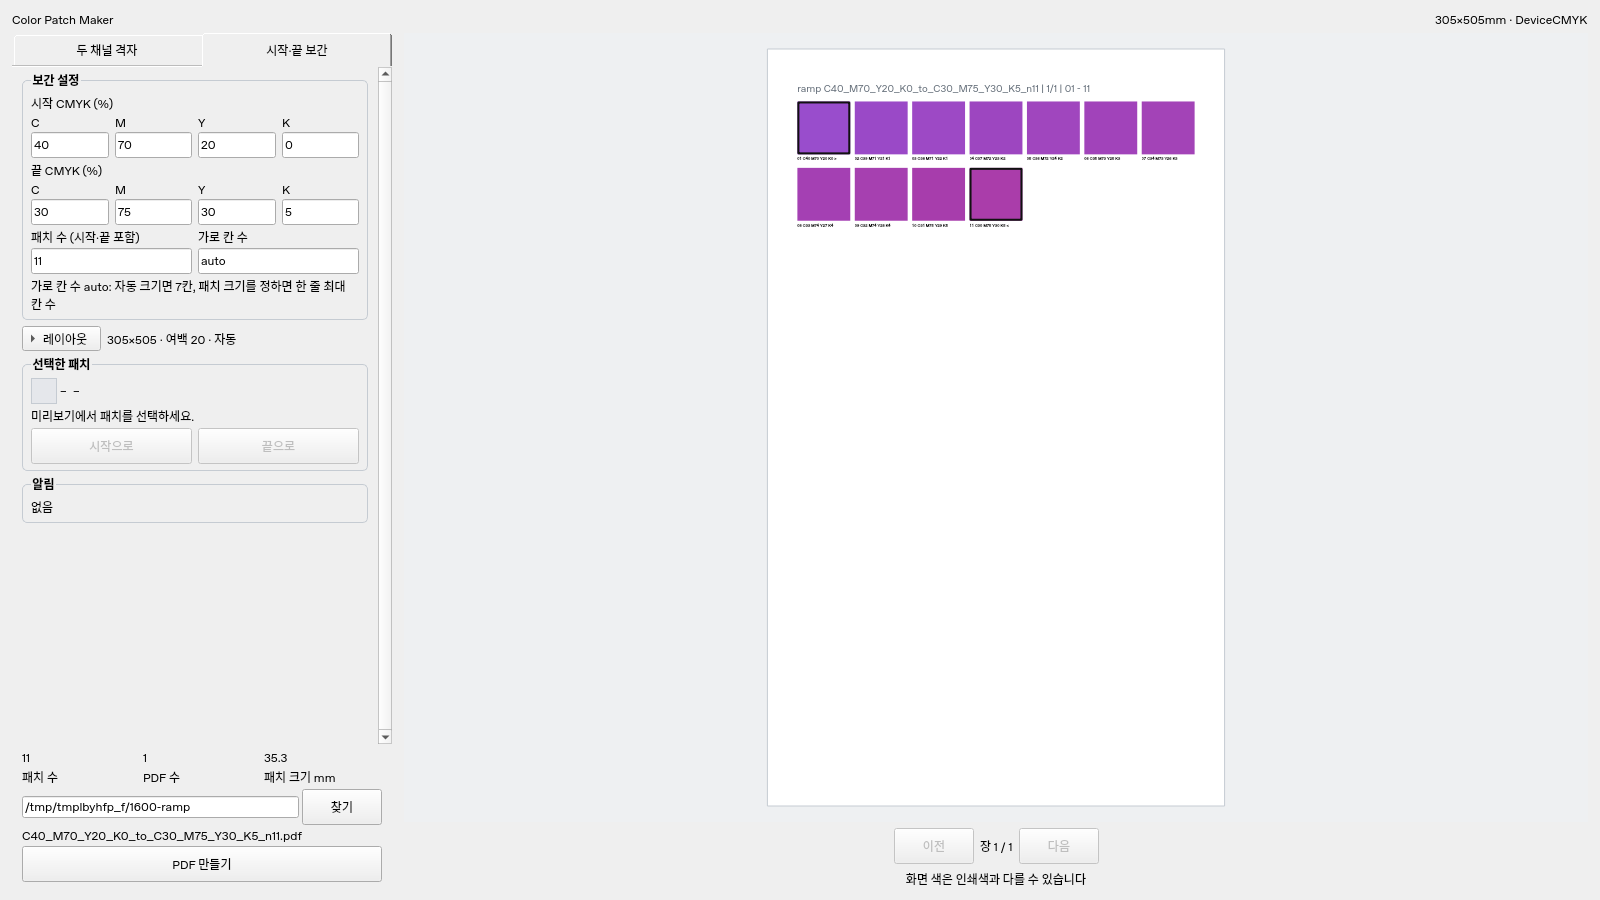
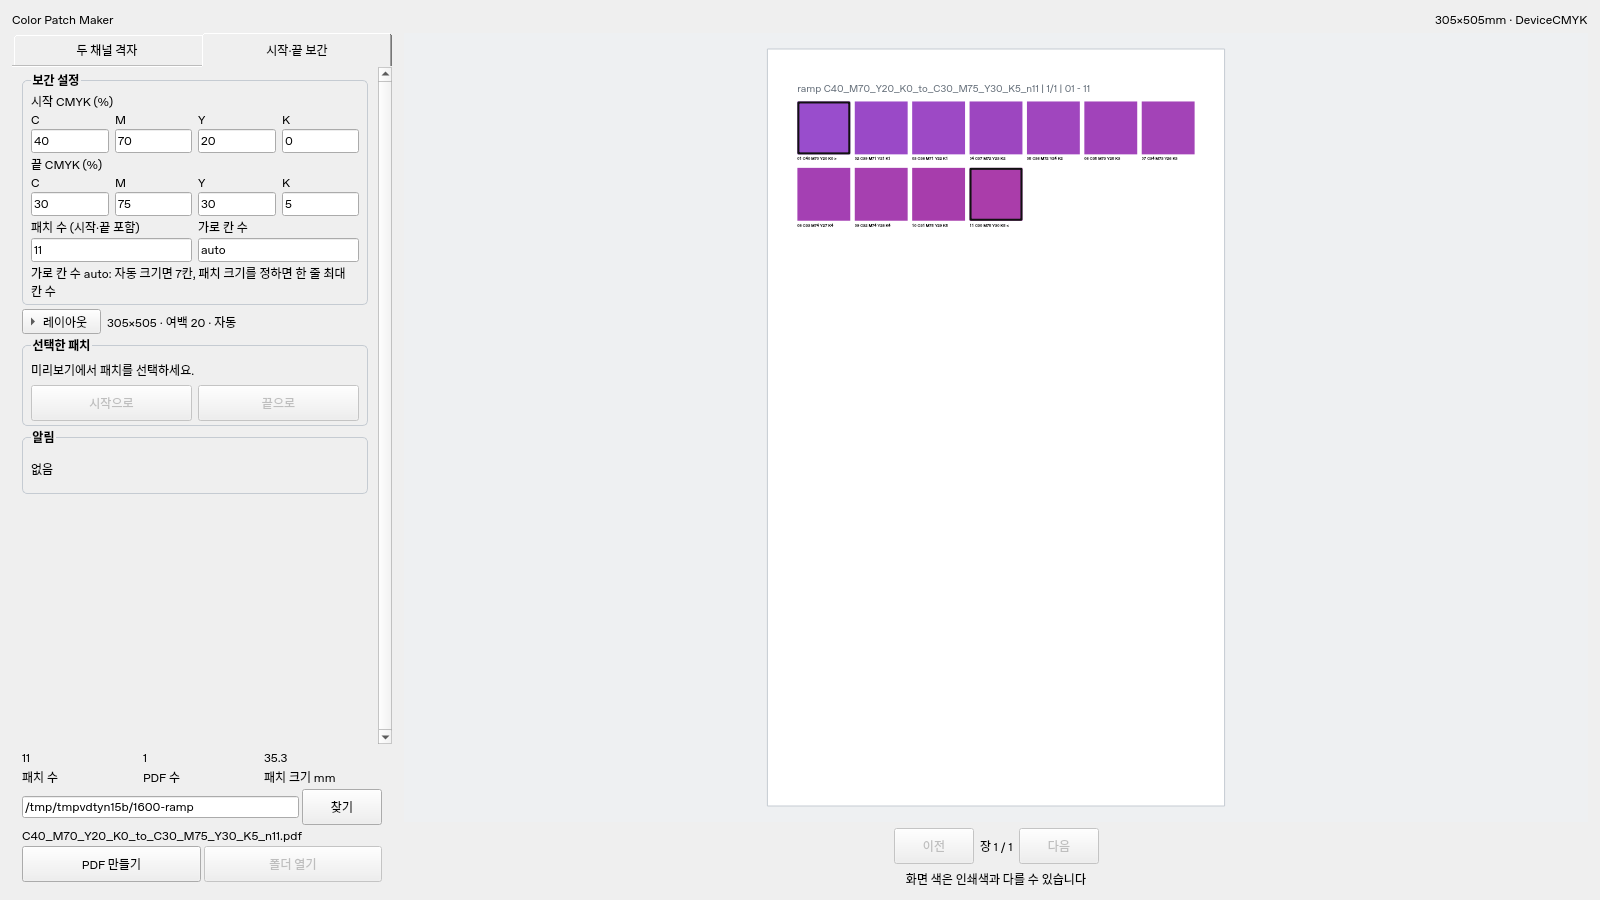
fix(gui): keep output notices visible and remove Enter shortcut

diff --git a/color_patch_maker/gui/sidebar.py b/color_patch_maker/gui/sidebar.py
@@ -64,7 +64,7 @@ class StatusText(QPlainTextEdit):
     def __init__(self):
         super().__init__()
         self.setReadOnly(True)
-        self.setFixedHeight(72)
+        self.setFixedHeight(40)
         self.setObjectName('output_status')
 
     def setText(self, text):
@@ -99,7 +99,7 @@ class Sidebar(QWidget):
         body = named(QWidget(), 'settings_body')
         content = QVBoxLayout(body)
         content.setContentsMargins(10, 6, 10, 6)
-        content.setSpacing(6)
+        content.setSpacing(4)
         self.grid_panel, grid = self.group('격자 설정', 'grid_panel')
         self.cmyk(grid, '기준 CMYK (%)', 'grid_cmyk', (40, 70, 20, 0))
         channel = named(QComboBox(), 'grid_channels')
@@ -160,8 +160,14 @@ class Sidebar(QWidget):
         text.setSpacing(6)
         text.addStretch()
         selected_row.addLayout(text, 1)
-        picked_layout.addLayout(selected_row)
-        picked_layout.addWidget(label('미리보기에서 패치를 선택하세요.', 'selection_hint'))
+        self.selection_details = named(QStackedWidget(), 'selection_details')
+        self.selection_details.setFixedHeight(26)
+        self.selection_details.addWidget(label('미리보기에서 패치를 선택하세요.', 'selection_hint'))
+        details = QWidget()
+        details.setLayout(selected_row)
+        selected_row.setContentsMargins(0, 0, 0, 0)
+        self.selection_details.addWidget(details)
+        picked_layout.addWidget(self.selection_details)
         self.use_base = button('이 값을 기준으로', 'use_as_base_button')
 
         self.ramp_actions = QWidget()
@@ -176,7 +182,11 @@ class Sidebar(QWidget):
         picked_layout.addWidget(self.selection_actions)
         content.addWidget(picked)
         warnings, warnings_layout = self.group('알림', 'warnings_panel')
-        warnings_layout.addWidget(label('없음', 'warning_list'))
+        notice_stack = named(QStackedWidget(), 'notice_stack')
+        notice_stack.setFixedHeight(40)
+        notice_stack.addWidget(label('없음', 'warning_list'))
+        notice_stack.addWidget(StatusText())
+        warnings_layout.addWidget(notice_stack)
         content.addWidget(warnings)
         content.addStretch()
         self.scroll.setWidget(body)
@@ -203,13 +213,10 @@ class Sidebar(QWidget):
         foot.addLayout(folder_row)
         foot.addWidget(ErrorLabel('output_folder_error'))
         foot.addWidget(label('–', 'filename_preview'))
-        foot.addWidget(button('PDF 만들기', 'make_pdf_button'))
-        status = StatusText()
-        status.hide()
-        foot.addWidget(status)
-        open_folder = button('폴더 열기', 'open_folder_button')
-        open_folder.hide()
-        foot.addWidget(open_folder)
+        output_actions = QHBoxLayout()
+        output_actions.addWidget(button('PDF 만들기', 'make_pdf_button'), 1)
+        output_actions.addWidget(button('폴더 열기', 'open_folder_button'), 1)
+        foot.addLayout(output_actions)
         outer.addWidget(footer)
         self.tabs.currentChanged.connect(self.set_mode)
         self.set_mode(0)
@@ -219,8 +226,8 @@ class Sidebar(QWidget):
         group = named(QGroupBox(title), name)
         group.setSizePolicy(QSizePolicy.Policy.Preferred, QSizePolicy.Policy.Maximum)
         box = QVBoxLayout(group)
-        box.setContentsMargins(8, 8, 8, 6)
-        box.setSpacing(3)
+        box.setContentsMargins(8, 6, 8, 4)
+        box.setSpacing(2)
         return group, box
 
     def row(self, parent, specs):
@@ -232,7 +239,7 @@ class Sidebar(QWidget):
             field.setAlignment(Qt.AlignmentFlag.AlignTop)
             widget = named(QLineEdit(value), name) if isinstance(value, str) else value
             widget.setMinimumWidth(0)
-            widget.setFixedHeight(26)
+            widget.setFixedHeight(24)
             widget.setAccessibleName(title)
             caption = QLabel(title)
             caption.setBuddy(widget)

diff --git a/tests/test_gui_output.py b/tests/test_gui_output.py
@@ -91,10 +91,10 @@ def test_collision_output_and_cli(window,tmp_path,split,mode):
     gui_json=[p for p in predicted if p.endswith('.json')]
     assert [json.loads(Path(p).read_text())['patches'] for p in gui_json]==[json.loads(Path(p).read_text())['patches'] for p in cli_json]
     value(window,'grid_step',2)
-    assert not wid(window,'output_status').isVisible() and not wid(window,'open_folder_button').isVisible()
+    assert not wid(window,'output_status').isVisible() and not wid(window,'open_folder_button').isEnabled()
 
 
-def test_worker_snapshot_lock_close_and_enter(window,tmp_path,monkeypatch):
+def test_worker_snapshot_lock_close(window,tmp_path,monkeypatch):
     gate=threading.Event();started=threading.Event();seen=[]
     original=output.export
     def delayed(document,folder):
@@ -104,7 +104,7 @@ def test_worker_snapshot_lock_close_and_enter(window,tmp_path,monkeypatch):
     monkeypatch.setattr(output,'export',delayed)
     value(window,'output_folder',tmp_path)
     snapshot=copy.deepcopy(window.controller.document)
-    QTest.keyClick(wid(window,'grid_cmyk_c'),Qt.Key.Key_Return)
+    wid(window,'make_pdf_button').click()
     wait_until(started.is_set)
     try:
         assert window.controller.output.busy
@@ -196,3 +196,49 @@ def test_open_folder(window,tmp_path,monkeypatch):
     wait_until(lambda:not window.controller.output.busy)
     wid(window,'open_folder_button').click()
     assert calls==[str(tmp_path)]
+
+
+@pytest.mark.parametrize('tab',[0,1])
+@pytest.mark.parametrize('state',['default','invalid','generating','completed','failure'])
+@pytest.mark.parametrize('family',['DejaVu Sans','Noto Sans CJK KR'])
+def test_notice_clearance_in_all_states(window,app,tmp_path,tab,state,family):
+    from PySide6.QtGui import QFont
+    window.setFont(QFont(family,10))
+    window.resize(1024,720)
+    window.sidebar.tabs.setCurrentIndex(tab)
+    if state not in ('default','invalid'):
+        value(window,'output_folder',tmp_path)
+    app.processEvents();QTest.qWait(30)
+    footer=wid(window,'output_footer')
+    base_height=footer.height()
+    if state=='invalid':
+        value(window,('grid_cmyk' if tab==0 else 'ramp_start')+'_c','40.5')
+    elif state=='generating':
+        window.controller.output.lock(True)
+        window.controller.output.status('PDF 생성 및 역검사 중입니다…')
+    elif state=='completed':
+        window.controller.output.status('역검사 통과\n'+'\n'.join(f'chart_{i:02}.pdf' for i in range(1,101)))
+        wid(window,'open_folder_button').setEnabled(True)
+    elif state=='failure':
+        window.controller.output.status('저장 폴더 쓰기 권한이 없습니다. 다른 폴더를 선택하세요.')
+    app.processEvents();QTest.qWait(30)
+    panel=wid(window,'warnings_panel');viewport=window.sidebar.scroll.viewport()
+    rect=panel.rect().translated(panel.mapTo(viewport,panel.rect().topLeft()))
+    assert viewport.rect().contains(rect)
+    assert viewport.height()-rect.bottom()-1 >= 16
+    assert window.sidebar.scroll.verticalScrollBar().value()==0
+    assert footer.height()==base_height
+    assert (window.width(),window.height())==(1024,720)
+    if state=='completed':
+        assert wid(window,'output_status').verticalScrollBar().maximum()>0
+
+
+@pytest.mark.parametrize('key',[Qt.Key.Key_Return,Qt.Key.Key_Enter])
+def test_enter_does_not_export(window,tmp_path,key):
+    value(window,'output_folder',tmp_path)
+    assert wid(window,'make_pdf_button').isEnabled()
+    wid(window,'grid_cmyk_c').setFocus()
+    QTest.keyClick(wid(window,'grid_cmyk_c'),key)
+    QTest.qWait(50)
+    assert not window.controller.output.busy
+    assert not list(tmp_path.glob('*.pdf'))

diff --git a/color_patch_maker/gui/output.py b/color_patch_maker/gui/output.py
@@ -3,7 +3,7 @@ import copy
 import errno
 from pathlib import Path
 from PySide6.QtCore import QThread, QUrl
-from PySide6.QtGui import QDesktopServices, QShortcut, QKeySequence
+from PySide6.QtGui import QDesktopServices
 from PySide6.QtWidgets import QFileDialog
 from color_patch_maker.engine.pdf import export, preview_paths
 
@@ -48,19 +48,16 @@ class OutputController:
         self.widget('output_folder').textChanged.connect(self.folder_changed)
         self.widget('make_pdf_button').clicked.connect(self.start)
         self.widget('open_folder_button').clicked.connect(self.open_folder)
-        self.shortcuts = [QShortcut(QKeySequence(key), self.window) for key in ('Return','Enter')]
-        for shortcut in self.shortcuts:
-            shortcut.activated.connect(self.start)
         self.update()
 
     def status(self, text):
         self.widget('output_status').setText(text)
-        self.widget('output_status').setVisible(bool(text))
+        self.widget('notice_stack').setCurrentIndex(1 if text else 0)
 
     def clear_status(self):
         if not self.busy:
             self.status('')
-            self.widget('open_folder_button').hide()
+            self.widget('open_folder_button').setEnabled(False)
             self.completed_folder = None
 
     def folder_changed(self):
@@ -121,7 +118,7 @@ class OutputController:
             names = [Path(p).name for p in thread.files if p.endswith('.pdf')]
             self.status('역검사 통과\n'+'\n'.join(names))
             self.widget('open_folder_button').setEnabled(True)
-            self.widget('open_folder_button').show()
+
         self.update()
         self.thread = None
         thread.deleteLater()

diff --git a/color_patch_maker/gui/controller.py b/color_patch_maker/gui/controller.py
@@ -128,6 +128,7 @@ class Controller:
 
     def select(self, patch):
         self.selected = patch
+        self.widget('selection_details').setCurrentIndex(1 if patch else 0)
         paper = self.window.preview.paper
         paper.selected_id = patch['id'] if patch else None
         paper.update()

diff --git a/docs/DESIGN.md b/docs/DESIGN.md
@@ -173,7 +173,7 @@ PC 가로 화면에 맞춘 2단 구성이다. 왼쪽 보조 패널에서 방식 
 | 패치 선택 | 미리보기의 패치를 누르면 보조 패널에 색칩·ID·CMYK 표시. 격자는 "이 값을 기준으로", 보간은 "시작으로"·"끝으로" 버튼으로 다음 작업 입력값을 채움 | 제안 |
 | 알림 | 고정 경고, 넘침 분할 안내, 레이아웃 오류 | 확정 |
 | 저장 | 저장 폴더 선택, 자동 파일명 미리보기, PDF 만들기 | 확정 |
-| 완료 | 생성 파일 목록, 역검사 결과, "폴더 열기" | 제안 |
+| 완료 | 알림 영역 안에 생성 파일 목록·역검사 결과 표시(긴 목록은 내부 스크롤). 하단 PDF 만들기 옆 고정 자리에 "폴더 열기" | 제안 |
 
 ### 4.3 동작 규칙
 
@@ -181,7 +181,7 @@ PC 가로 화면에 맞춘 2단 구성이다. 왼쪽 보조 패널에서 방식 
 - 확정: PDF 생성과 역검사는 UI 스레드 밖에서 실행하고, 실행 중에는 진행 상태를 보이며 중복 실행을 막는다.
 - 확정: 출력 실패 시 원인을 알리고, 그 실행에서 만든 결과만 정리한다. 기존 파일은 건드리지 않는다.
 - 제안: 저장 폴더와 레이아웃 설정은 다음 실행 때 복원한다. CMYK 입력값은 복원하지 않는다(색마다 독립 작업).
-- 제안: 키보드만으로 입력·이동·생성이 가능하게 한다(Tab 순서, Enter로 생성).
+- 제안: 키보드로 입력·이동할 수 있도록 Tab 순서를 맞춘다. PDF는 "PDF 만들기" 버튼으로 실행한다.
 
 ## 5. 화면 구성 — CLI
 
